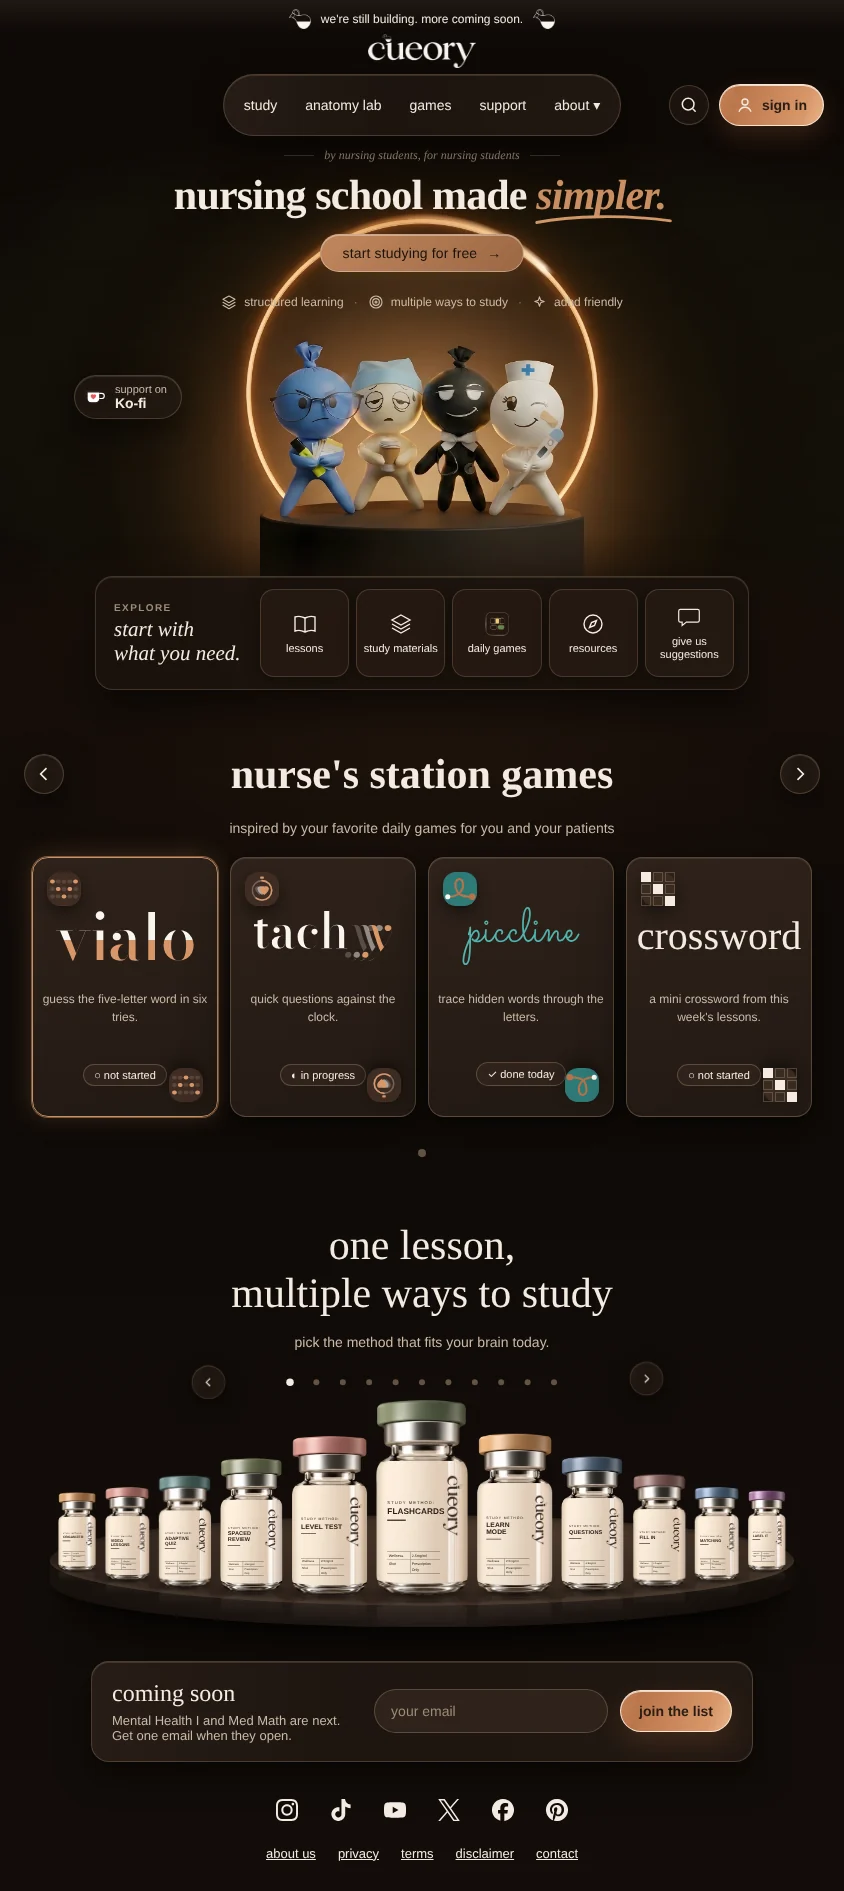
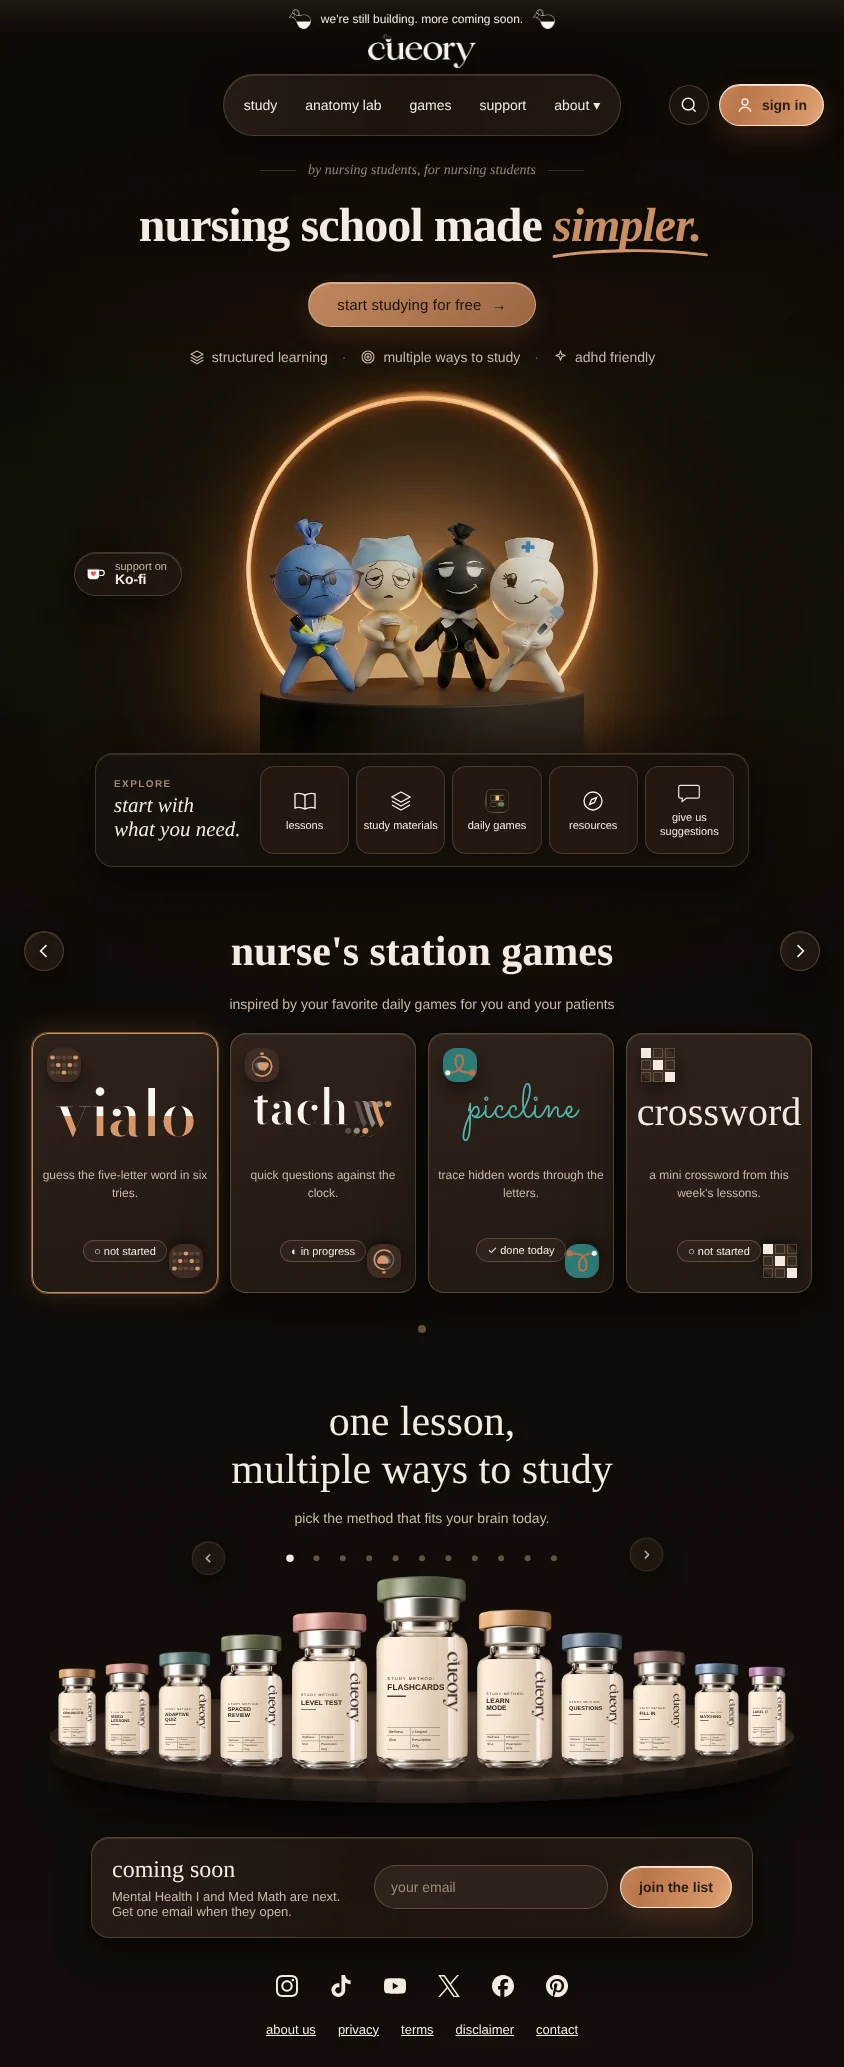
Home v3 hand-off: roomier landscape hero (ring below the text)
Claude-Session: https://claude.ai/code/session_01V8pHm5xDFd3PCqqXThexqv

diff --git a/docs/design/home-v3/home-landscape-evening.dc.html b/docs/design/home-v3/home-landscape-evening.dc.html
@@ -187,13 +187,13 @@ header > nav[aria-label="Main"]{padding:4px 8px!important;align-items:center}
 header > nav[aria-label="Main"] > div{display:flex;align-items:center}
 header > div > button[aria-label="Search"]{width:40px!important;height:40px!important}
 header > div > a.copper{min-height:40px!important;padding:0 16px!important;font-size:14px!important;gap:8px!important}
-section:not([id]){padding:12px 24px 0!important;max-width:none!important}
-section:not([id]) > div:first-child{font-size:12px!important;gap:10px!important;margin-bottom:10px!important}
-section:not([id]) > div:first-child > span{width:30px!important}
-section:not([id]) > h1{font-size:42px!important;line-height:1.08!important}
-section:not([id]) > a{margin-top:16px!important;font-size:14px!important;padding:10px 22px!important}
-section:not([id]) > div:nth-of-type(2){margin-top:22px!important;gap:10px!important;font-size:12px!important}
-section:not([id]) > div:nth-of-type(3){height:252px!important;margin-top:28px!important;max-width:none!important;width:576px!important}
+section:not([id]){padding:26px 24px 0!important;max-width:none!important}
+section:not([id]) > div:first-child{font-size:14px!important;gap:12px!important;margin-bottom:20px!important}
+section:not([id]) > div:first-child > span{width:36px!important}
+section:not([id]) > h1{font-size:48px!important;line-height:1.12!important}
+section:not([id]) > a{margin-top:30px!important;font-size:15px!important;padding:13px 28px!important}
+section:not([id]) > div:nth-of-type(2){margin-top:22px!important;gap:12px 14px!important;font-size:14px!important}
+section:not([id]) > div:nth-of-type(3){height:252px!important;margin-top:150px!important;max-width:none!important;width:576px!important}
 section:not([id]) > div:nth-of-type(3) > img{width:864px!important;height:482px!important;top:-198px!important}
 .halo-shine{top:56px!important;width:362px!important;height:362px!important;margin:-181px 0 0 -181px!important;-webkit-mask-image:radial-gradient(circle,transparent 169px,#000 173px,#000 176px,transparent 181px)!important;mask-image:radial-gradient(circle,transparent 169px,#000 173px,#000 176px,transparent 181px)!important}
 section:not([id]) > div:nth-of-type(3) > a{left:-60px!important;top:37px!important;padding:7px 14px 7px 10px!important;gap:8px!important}
@@ -434,7 +434,7 @@ footer{padding:12px 24px 30px!important;gap:10px 22px!important;justify-content:
 
 </div>
 </x-dc>
-<script type="text/x-dc" data-dc-script="" data-props="{&quot;$preview&quot;:{&quot;width&quot;:844,&quot;height&quot;:1891}}">
+<script type="text/x-dc" data-dc-script="" data-props="{&quot;$preview&quot;:{&quot;width&quot;:844,&quot;height&quot;:2067}}">
 class Component extends DCLogic {
   constructor(props) { super(props); this.state = { modal: null, about: false, active: 4, game: 0, card: 0 }; }
   renderVals() {

diff --git a/docs/design/home-v3/home-landscape-light.dc.html b/docs/design/home-v3/home-landscape-light.dc.html
@@ -164,13 +164,13 @@ header > nav[aria-label="Main"]{padding:4px 8px!important;align-items:center}
 header > nav[aria-label="Main"] > div{display:flex;align-items:center}
 header > div > button[aria-label="Search"]{width:40px!important;height:40px!important}
 header > div > a.copper{min-height:40px!important;padding:0 16px!important;font-size:14px!important;gap:8px!important}
-section:not([id]){padding:12px 24px 0!important;max-width:none!important}
-section:not([id]) > div:first-child{font-size:12px!important;gap:10px!important;margin-bottom:10px!important}
-section:not([id]) > div:first-child > span{width:30px!important}
-section:not([id]) > h1{font-size:42px!important;line-height:1.08!important}
-section:not([id]) > a{margin-top:16px!important;font-size:14px!important;padding:10px 22px!important}
-section:not([id]) > div:nth-of-type(2){margin-top:22px!important;gap:10px!important;font-size:12px!important}
-section:not([id]) > div:nth-of-type(3){height:252px!important;margin-top:28px!important;max-width:none!important;width:576px!important}
+section:not([id]){padding:26px 24px 0!important;max-width:none!important}
+section:not([id]) > div:first-child{font-size:14px!important;gap:12px!important;margin-bottom:20px!important}
+section:not([id]) > div:first-child > span{width:36px!important}
+section:not([id]) > h1{font-size:48px!important;line-height:1.12!important}
+section:not([id]) > a{margin-top:30px!important;font-size:15px!important;padding:13px 28px!important}
+section:not([id]) > div:nth-of-type(2){margin-top:22px!important;gap:12px 14px!important;font-size:14px!important}
+section:not([id]) > div:nth-of-type(3){height:252px!important;margin-top:150px!important;max-width:none!important;width:576px!important}
 section:not([id]) > div:nth-of-type(3) > img{width:864px!important;height:482px!important;top:-198px!important}
 .halo-shine{top:56px!important;width:362px!important;height:362px!important;margin:-181px 0 0 -181px!important;-webkit-mask-image:radial-gradient(circle,transparent 169px,#000 173px,#000 176px,transparent 181px)!important;mask-image:radial-gradient(circle,transparent 169px,#000 173px,#000 176px,transparent 181px)!important}
 section:not([id]) > div:nth-of-type(3) > a{left:-60px!important;top:37px!important;padding:7px 14px 7px 10px!important;gap:8px!important}
@@ -411,7 +411,7 @@ footer{padding:12px 24px 30px!important;gap:10px 22px!important;justify-content:
 
 </div>
 </x-dc>
-<script type="text/x-dc" data-dc-script="" data-props="{&quot;$preview&quot;:{&quot;width&quot;:844,&quot;height&quot;:1891}}">
+<script type="text/x-dc" data-dc-script="" data-props="{&quot;$preview&quot;:{&quot;width&quot;:844,&quot;height&quot;:2067}}">
 class Component extends DCLogic {
   constructor(props) { super(props); this.state = { modal: null, about: false, active: 4, game: 0, card: 0 }; }
   renderVals() {

diff --git a/docs/design/home-v3/README.md b/docs/design/home-v3/README.md
@@ -10,7 +10,7 @@ built"). These files are the hand-off for building it. The canvas stays the sour
 | `home-light-1440.webp`, `home-evening-1440.webp` | Full-page pictures of the approved Light and Evening boards at 1440 px wide. Build to match these. |
 | `home-light.dc.html`, `home-evening.dc.html` | The board sources. Read them for exact sizes, spacing, gradients, the halo animation and the vial layout script. They are design files, not page code: rebuild with our components, tokens and layout. |
 | `home-phone-light-390.webp`, `home-phone-evening-390.webp`, `home-phone-*.dc.html` | Phone portrait boards at 390 wide (the logo is centred on the screen, the bottom two explore tiles are centred, and the vial dots sit in one row under the platter with an arrow at each end). The header gets a menu button, with search and sign in as icons; the hero puts the button and points above the stage; the explore dock uses 3 + 2 tiles; game cards swipe; the vial platter shows the front vial plus one each side (D-192), with the arrows under the platter. |
-| `home-landscape-light-844.webp`, `home-landscape-evening-844.webp`, `home-landscape-*.dc.html` | Phone landscape boards (844 × 390). This is the desktop layout at about 60%: the logo centred with the menu bar under it, the hero stacked and centred over the stage, the explore dock overlapping the stage, four game cards, all 11 vials on the platter, and the email form on one row. |
+| `home-landscape-light-844.webp`, `home-landscape-evening-844.webp`, `home-landscape-*.dc.html` | Phone landscape boards (844 × 390). This is the desktop layout at about 60%: the logo centred with the menu bar under it, the hero text stacked and centred with generous spacing, and the stage (ring, gloves, Ko-fi pill) starting below the three points, the explore dock overlapping the stage, four game cards, all 11 vials on the platter, and the email form on one row. |
 | `/public/design/home-v3/stage-light.webp`, `stage-evening.webp` | Hero background photo (glove characters on the round pedestal inside the glowing ring), 2880 × 1607. |
 | `/public/design/home-v3/silk-band.svg`, `pip-vialo.svg`, `pip-piccline.svg`, `icon-games.webp` | Small pieces the boards use. |
 | `/public/vials/v2/vial-*.webp` | Rebuilt study-method vials, 912 px wide (clean outlines, curved label edges). They replace `/public/vials/*.webp` once the new carousel ships. The method name, table and logo stay live text and official logo artwork laid over the blank label, as today. |
